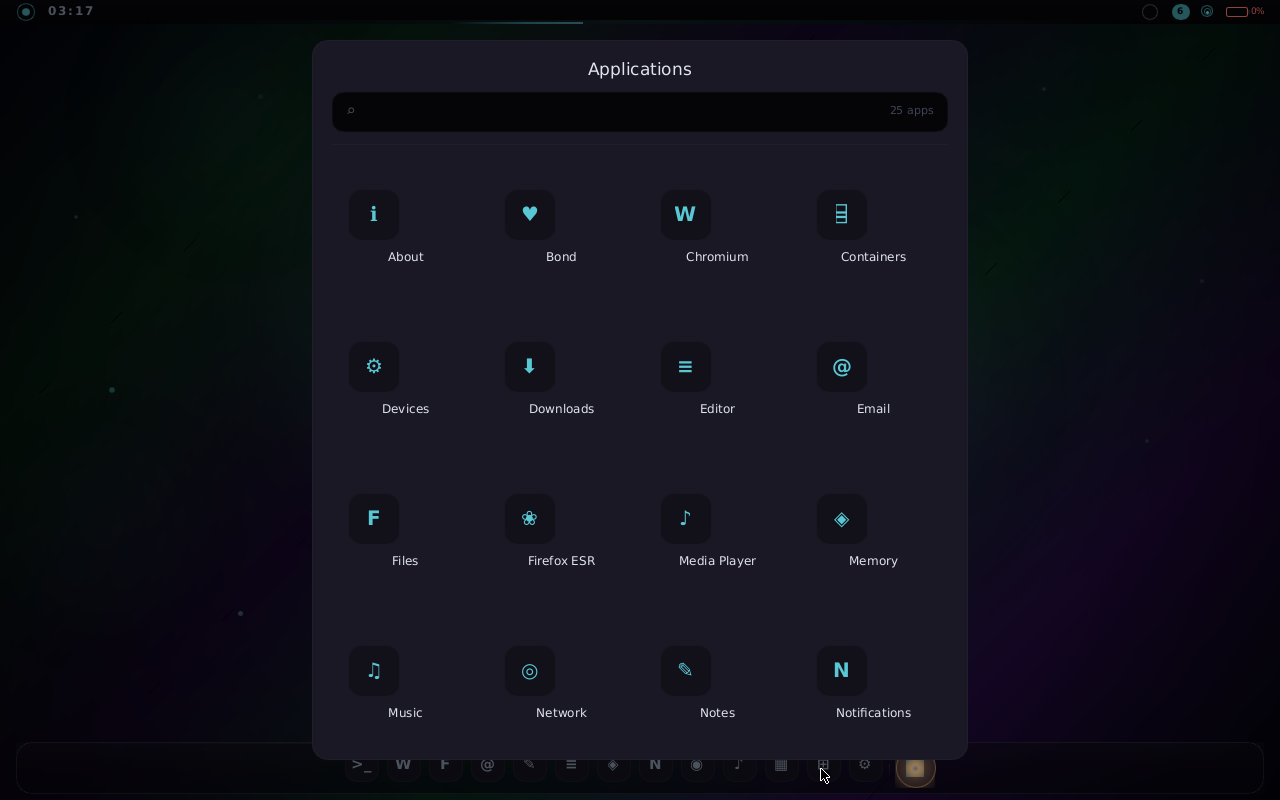
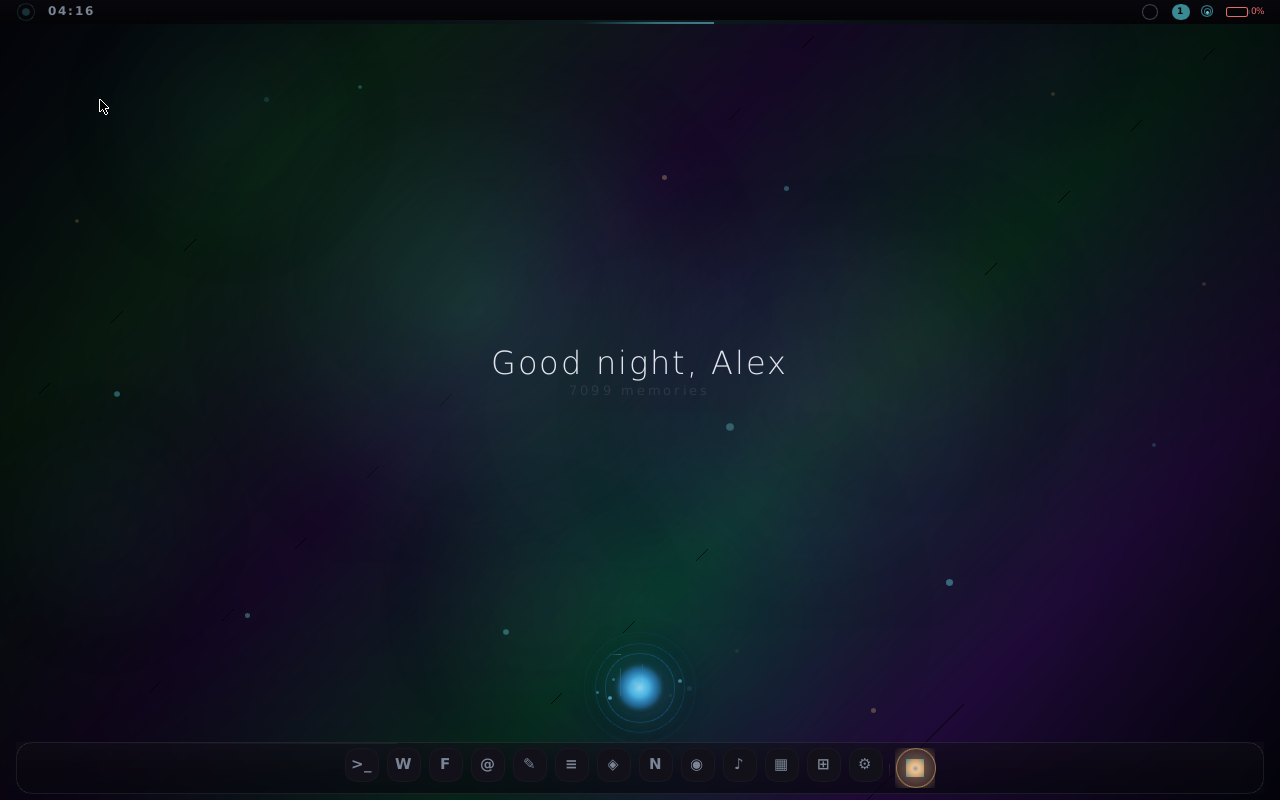
Replace screenshots: use "Alex" instead of real name, remove PII
- Desktop greeting now shows "Good night, Alex" instead of real name
- Removed settings_ai.png (exposed username + internal IP)
- Removed desktop_orb.png (showed real name)
- Removed empty notifications screenshot
- Reordered carousel to lead with best screenshots
- Video thumbnail now uses desktop greeting

diff --git a/src/components/Screenshots.tsx b/src/components/Screenshots.tsx
@@ -16,6 +16,11 @@ const screenshots = [
     description: "25 built-in apps with search — About, Bond, Email, Files, Memory, Notes, Network, and more",
   },
   {
+    src: "/screenshots/skill_store.png",
+    title: "Skill Store",
+    description: "50 toggleable AI skills across Intelligence, Productivity, Communication, Entertainment, and more",
+  },
+  {
     src: "/screenshots/files.png",
     title: "File Browser",
     description: "Places sidebar, icon-based file list with sizes and dates, navigate your entire filesystem",
@@ -31,24 +36,14 @@ const screenshots = [
     description: "Search through 7,000+ semantic memories — everything the AI has ever learned about you",
   },
   {
-    src: "/screenshots/settings_ai.png",
-    title: "AI & Companion Settings",
-    description: "Configure AI model, backend, context window, tool permissions, bond level, and personality",
-  },
-  {
-    src: "/screenshots/skill_store.png",
-    title: "Skill Store",
-    description: "50 toggleable AI behaviors across Intelligence, Productivity, Entertainment, and more",
+    src: "/screenshots/settings.png",
+    title: "Display Settings",
+    description: "Dark/Light theme, 5 wallpapers, accent color, resolution — customize your desktop",
   },
   {
     src: "/screenshots/calendar.png",
     title: "Calendar",
     description: "Monthly view with event sidebar — integrated with AI for smart scheduling",
-  },
-  {
-    src: "/screenshots/settings.png",
-    title: "Display Settings",
-    description: "Dark/Light theme, 5 wallpapers, accent color, resolution — customize your desktop",
   },
   {
     src: "/screenshots/text_editor.png",

diff --git a/src/components/VideoDemo.tsx b/src/components/VideoDemo.tsx
@@ -39,7 +39,7 @@ export default function VideoDemo() {
               onClick={() => setPlaying(true)}
             >
               <img
-                src="/screenshots/app_launcher.png"
+                src="/screenshots/desktop_greeting.png"
                 alt="Yantrik OS Tour"
                 className="w-full h-full object-contain opacity-70 group-hover:opacity-50 transition-opacity"
               />
